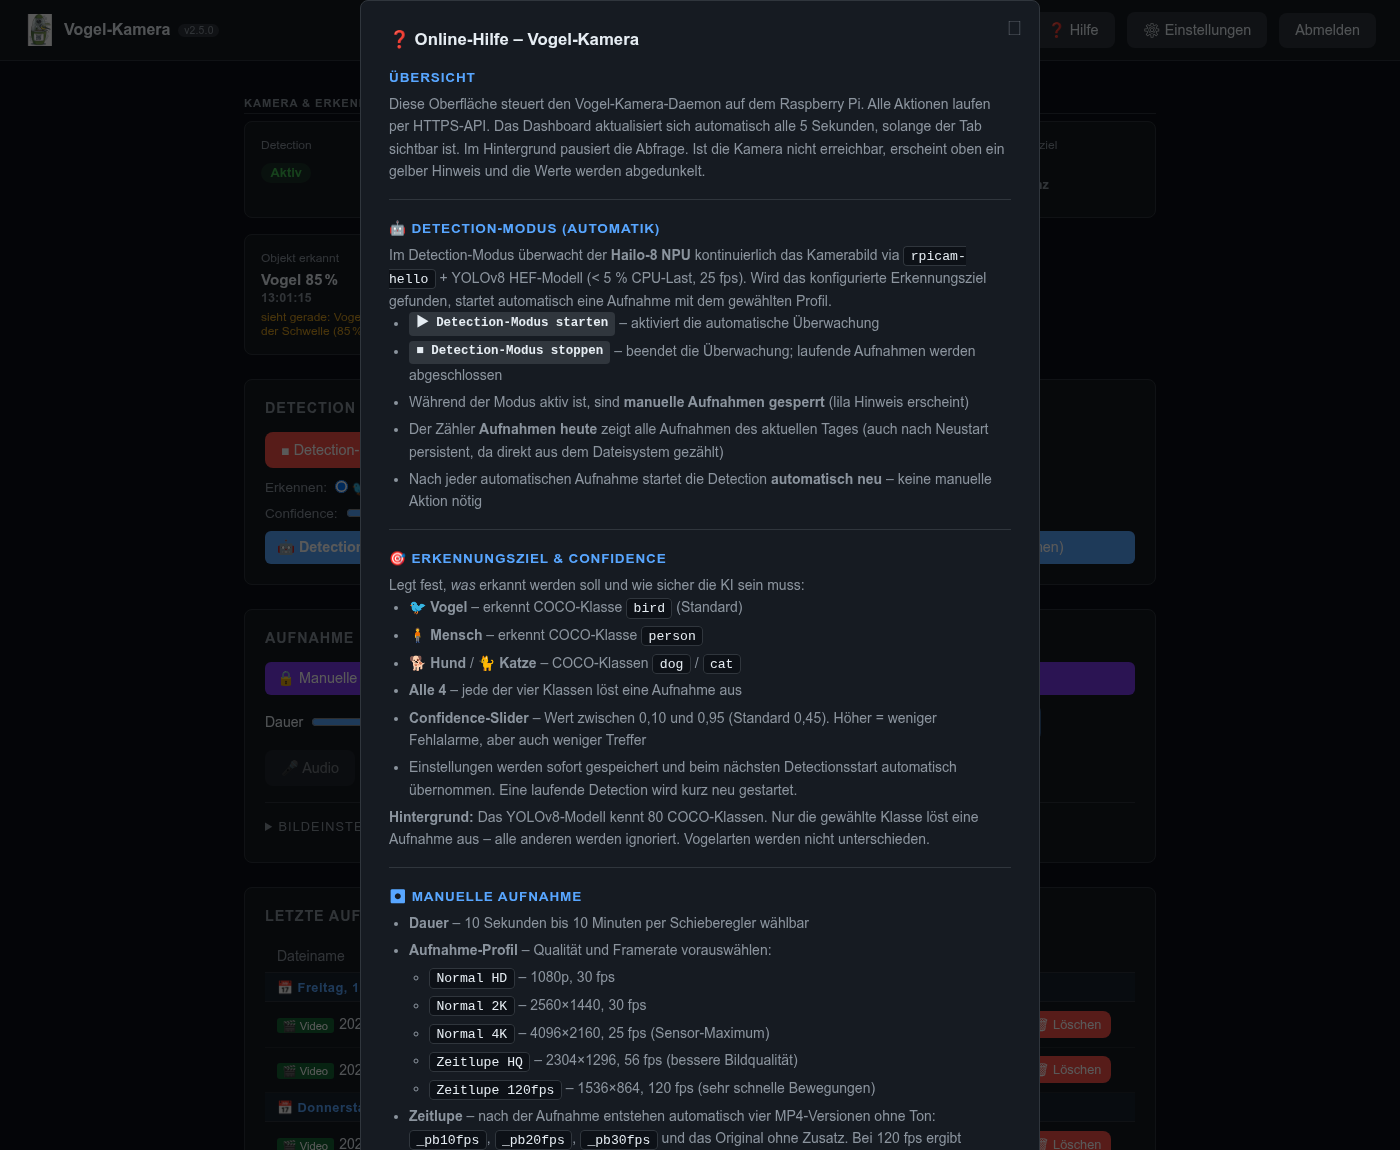
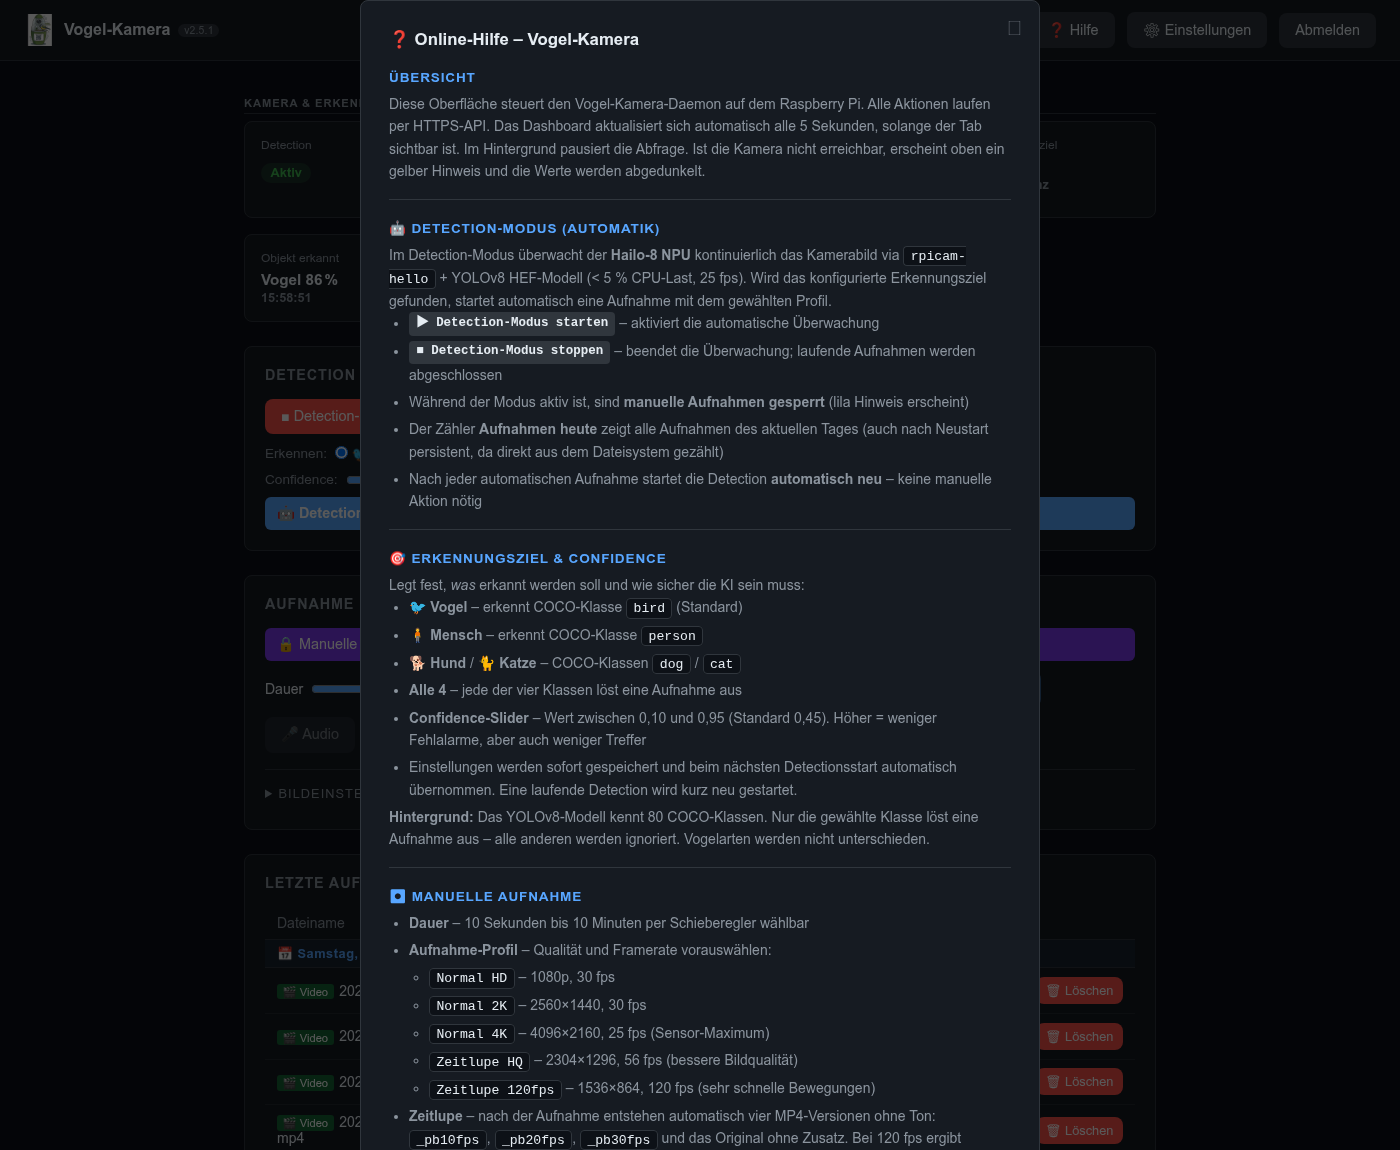
docs: Screenshots v2.5.1 (Grafana System-Updates, Online-Hilfe)
- neu: assets/Grafana-System-Updates.png – Zeile „System-Updates“ im
  Dashboard, im README beim Abschnitt Monitoring eingebunden
- WebGUI-OnlineHilfe.png mit Versionsnummer v2.5.1
- Status, Player und Aufnahmeliste vom 13.11. (echte Vogel-Erkennung)
  bleiben; Login zeigt keine Version

diff --git a/README.md b/README.md
@@ -289,6 +289,11 @@ Das Dashboard „Vogel-Kamera" zeigt Akkustand und Restlaufzeit, Erkennungen, Te
 Speicher und Netz. Alternativ läuft der Stack auf einem anderen Rechner im Heimnetz.
 Anleitung: [monitoring/README.md](monitoring/README.md)
 
+Seit v2.5.1 zeigt die Zeile **„System-Updates“**, ob Updates anstehen, ob ein Neustart nötig ist
+und ob die Boot-Prüfung vor dem Docker-Start bestanden wurde:
+
+![Grafana: Zeile System-Updates mit verfügbaren und gesperrten Updates, Neustart, Boot-Prüfung und Kernel](assets/Grafana-System-Updates.png)
+
 ### Screenshots
 
 | Login | Status und Steuerung |
